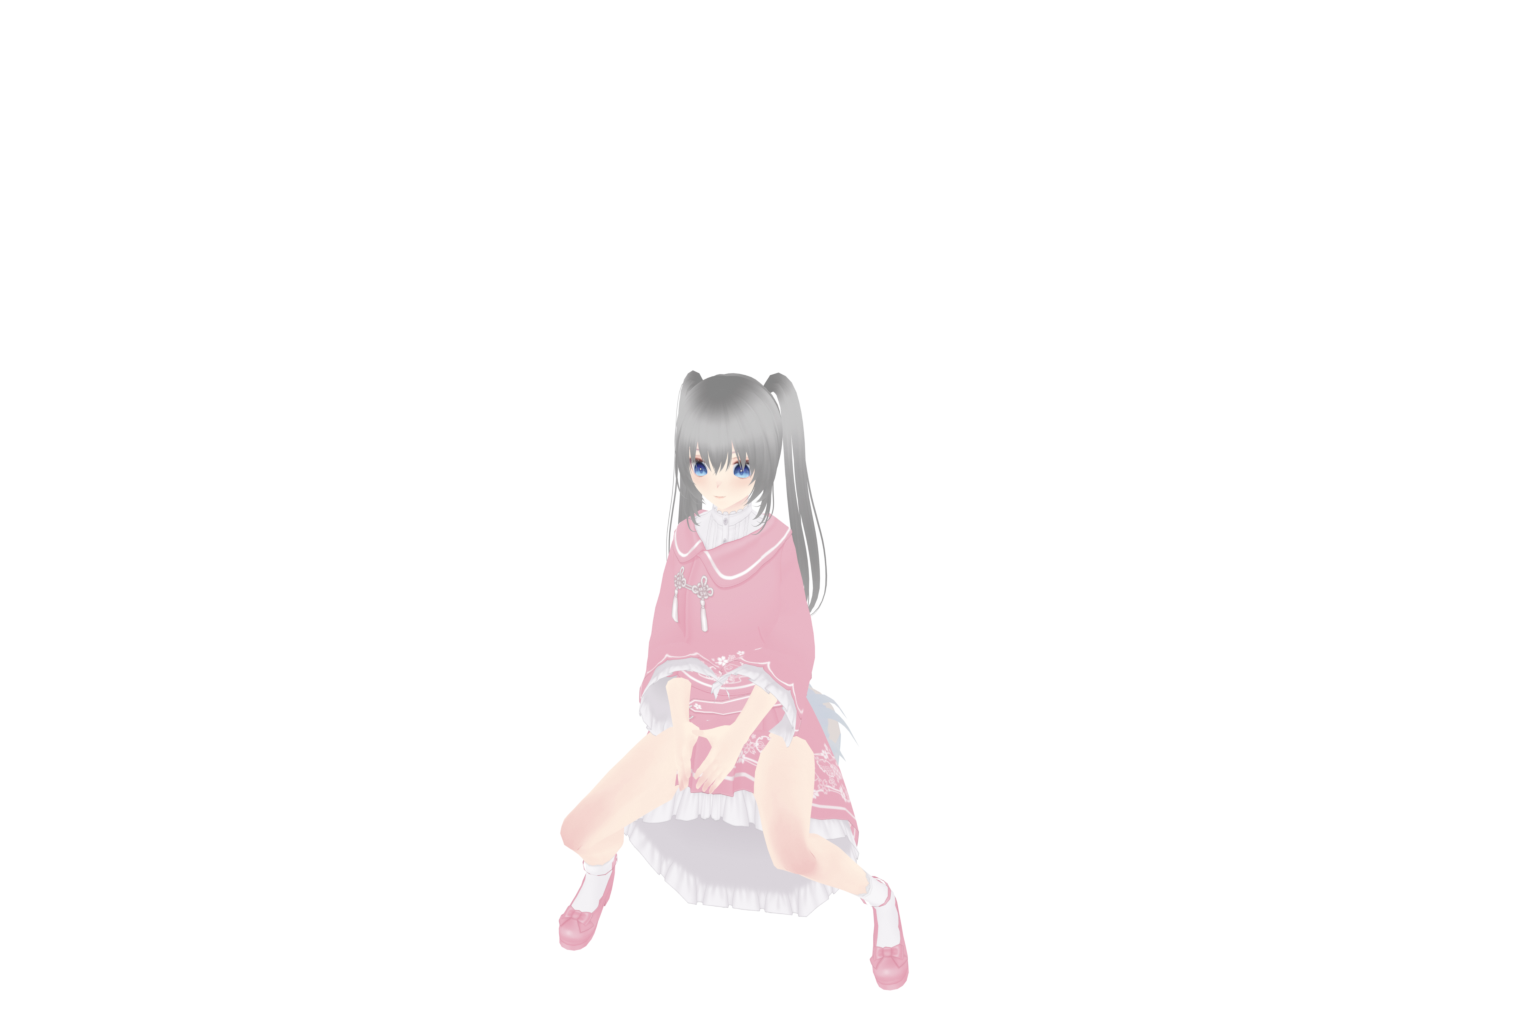
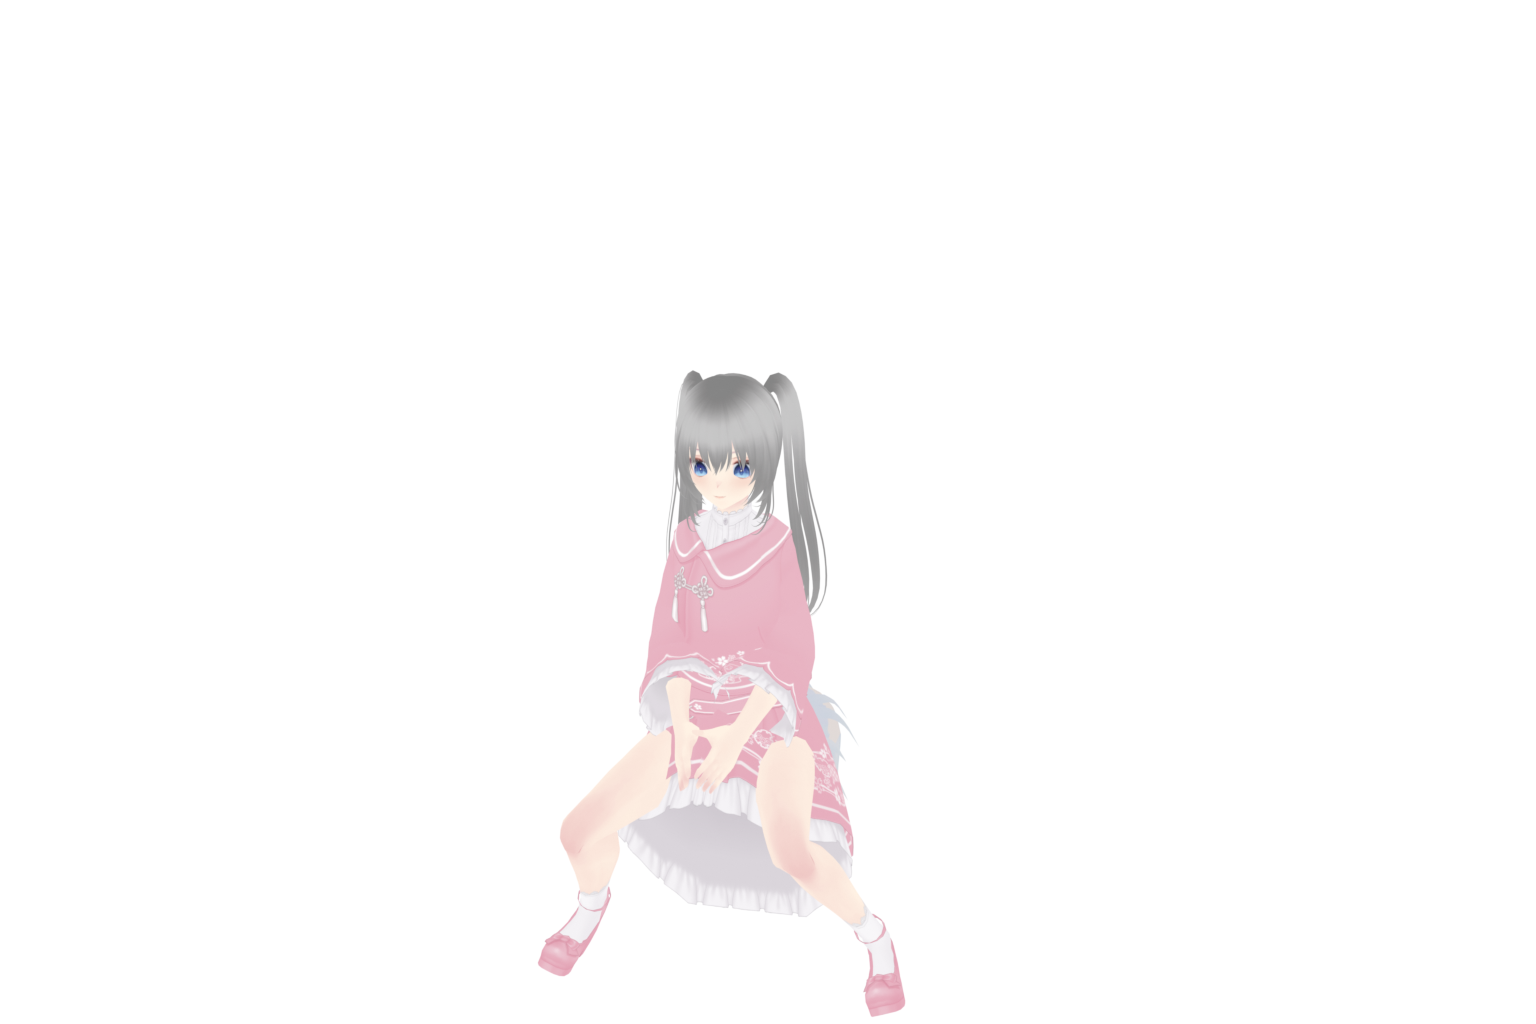
裙摆改成贴着大腿铺，脚放平
之前前片垂成一道帘子，从桌沿一直挂到小腿中段，把大腿和膝盖全盖住，
只剩两截小腿孤零零露在外面——腿看着别扭的主因是这个，不是桌子高度。
改成顺着大腿往前铺、到膝盖收住，侧片也收窄，不再张成裙撑。

脚踝放平。绷着脚尖看着像悬空，踩平了才像坐着歇脚。

Changed region(s): [[0.5312, 0.75, 0.5938, 1.0], [0.4062, 0.7188, 0.5, 0.8125], [0.3438, 0.8438, 0.4062, 0.9688]]

diff --git a/Blender/pose.py b/Blender/pose.py
@@ -67,8 +67,8 @@ def aim(arm, name, direction, prefer=None):
 # 这既是坐着的自然姿势，也解决一个取景问题：脚比躯干更靠近镜头，
 # 而画幅下边界在近处更高——脚往后收，离镜头远了，才落得进画面。
 LEG_STYLES = {
-    "together": (( 0.14, -1.00, -0.10), ( 0.06,  0.78, -0.63), ( 0.05, -0.62, -0.60)),
-    "apart":    (( 0.30, -0.96, -0.10), ( 0.22,  0.80, -0.56), ( 0.16, -0.58, -0.64)),
+    "together": (( 0.14, -1.00, -0.10), ( 0.06,  0.72, -0.69), ( 0.05, -0.90, -0.22)),
+    "apart":    (( 0.30, -0.96, -0.10), ( 0.22,  0.70, -0.70), ( 0.16, -0.88, -0.26)),
     "tucked":   (( 0.14, -1.00, -0.10), ( 0.10,  0.90, -0.42), ( 0.08, -0.20, -0.96)),
 }
 
@@ -130,8 +130,8 @@ def drape_skirt(arm, spread=1.0):
     段必须从腰往下依次摆：裙骨是父子链，先摆下段的话上段一转就把它带跑。
     """
     plan = {
-        "Front": ((0.00, -0.74, -0.67), (0.00, -0.86, -0.51), (0.00, -0.24, -0.97)),
-        "Side":  ((0.52, -0.30, -0.80), (0.40, -0.20, -0.89), (0.24, -0.10, -0.97)),
+        "Front": ((0.00, -0.86, -0.51), (0.00, -0.92, -0.39), (0.00, -0.62, -0.78)),
+        "Side":  ((0.44, -0.52, -0.73), (0.34, -0.38, -0.86), (0.20, -0.22, -0.95)),
         "Back":  ((0.08,  0.22, -0.97), (0.04,  0.11, -0.99), (0.00,  0.04, -1.00)),
     }
     bpy.context.view_layer.objects.active = arm
